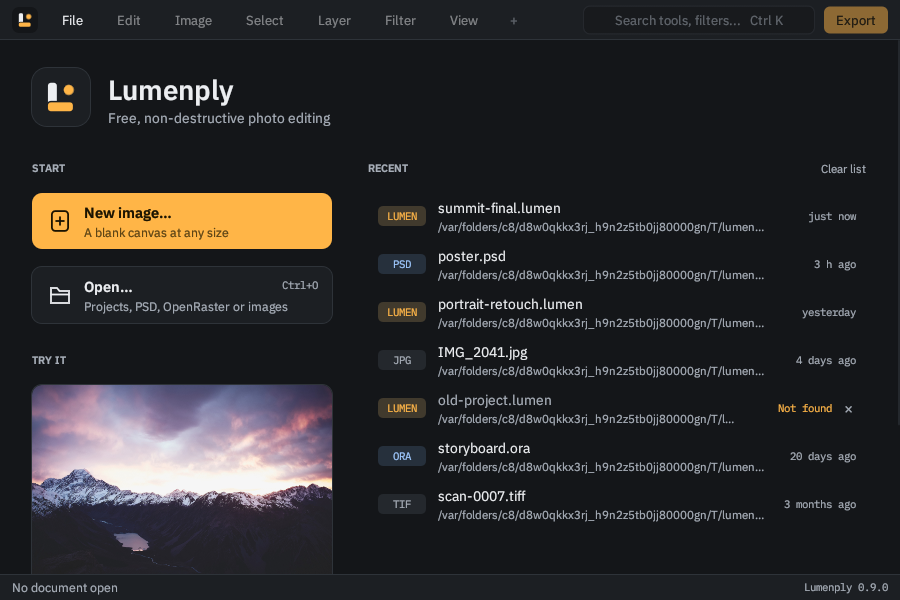
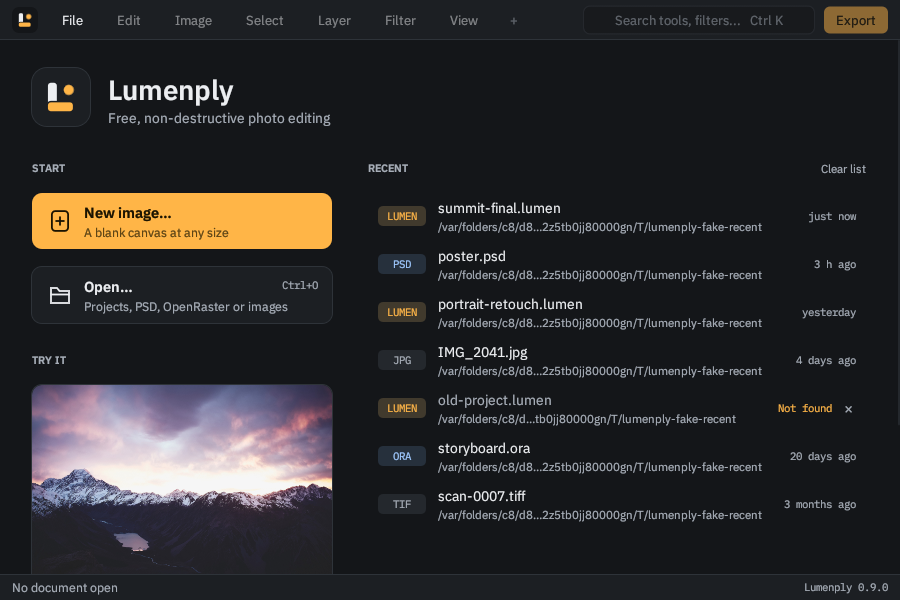
Welcome: elide long folders in the middle; document rfd backends
Recent-file folders keep their last folders (the identifying part) and
lose their middle when the column is narrow. Tests cover a failed launch
open staying on the welcome screen with its error.

diff --git a/crates/app/src/start.rs b/crates/app/src/start.rs
@@ -542,13 +542,17 @@ impl App {
                 text_w,
             ));
             p.galley(egui::pos2(text_x, rect.top() + 6.0), name_galley, TEXT);
-            let dir_galley = p.layout_job(one_line(
-                &display_dir(path, home.as_deref()),
-                FontId::proportional(11.5),
+            // Folders lose their middle, not their end: the last folder
+            // is usually the one that identifies the file.
+            let dir_font = FontId::proportional(11.5);
+            let dir = fit_middle(p, &display_dir(path, home.as_deref()), &dir_font, text_w);
+            p.text(
+                egui::pos2(text_x, rect.top() + 26.0),
+                Align2::LEFT_TOP,
+                dir,
+                dir_font,
                 MUTED,
-                text_w,
-            ));
-            p.galley(egui::pos2(text_x, rect.top() + 26.0), dir_galley, MUTED);
+            );
 
             if missing {
                 let x_hot = ui.rect_contains_pointer(x_rect);
@@ -603,6 +607,40 @@ fn one_line(text: &str, font: FontId, color: Color32, max_w: f32) -> egui::text:
         egui::text::LayoutJob::single_section(text.to_string(), egui::TextFormat::simple(font, color));
     job.wrap = egui::text::TextWrapping::truncate_at_width(max_w);
     job
+}
+
+/// `text` cut to `keep` characters by removing its middle: a third of the
+/// budget for the head, the rest for the tail, joined by an ellipsis.
+pub(crate) fn elide_middle(text: &str, keep: usize) -> String {
+    let chars: Vec<char> = text.chars().collect();
+    if chars.len() <= keep {
+        return text.to_string();
+    }
+    let budget = keep.saturating_sub(1); // room for the ellipsis
+    let head = budget / 3;
+    let tail = budget - head;
+    let mut out: String = chars[..head].iter().collect();
+    out.push('…');
+    out.extend(&chars[chars.len() - tail..]);
+    out
+}
+
+/// The longest middle-elided form of `text` that fits `max_w`.
+fn fit_middle(p: &egui::Painter, text: &str, font: &FontId, max_w: f32) -> String {
+    let width = |s: &str| p.layout_no_wrap(s.to_string(), font.clone(), MUTED).size().x;
+    if width(text) <= max_w {
+        return text.to_string();
+    }
+    let (mut lo, mut hi) = (1, text.chars().count());
+    while lo < hi {
+        let mid = (lo + hi).div_ceil(2);
+        if width(&elide_middle(text, mid)) <= max_w {
+            lo = mid;
+        } else {
+            hi = mid - 1;
+        }
+    }
+    elide_middle(text, lo)
 }
 
 fn semibold() -> egui::FontFamily {
@@ -881,6 +919,31 @@ mod tests {
             "an opened image is not an undo step"
         );
         assert_eq!(app.tab_infos(), [("dot.png".to_string(), false)]);
+    }
+
+    #[test]
+    fn a_file_that_fails_to_open_leaves_its_error_on_the_welcome_screen() {
+        let missing = std::env::temp_dir()
+            .join("lumenply-no-such-dir")
+            .join("gone.lumen");
+        let app = App::launch(&args(&[&missing.to_string_lossy()]));
+        assert!(app.no_doc);
+        assert!(app.status.starts_with("Could not open"), "{}", app.status);
+        assert!(!app.recent.iter().any(|r| r.ends_with("gone.lumen")));
+    }
+
+    #[test]
+    fn long_folders_lose_their_middle() {
+        let abc = "abcdefghijklmnopqrstuvwxyz";
+        assert_eq!(elide_middle(abc, 26), abc);
+        assert_eq!(elide_middle(abc, 40), abc);
+        assert_eq!(elide_middle(abc, 10), "abc…uvwxyz");
+        assert_eq!(elide_middle(abc, 10).chars().count(), 10);
+        assert_eq!(elide_middle(abc, 1), "…");
+        assert_eq!(
+            elide_middle("~/Pictures/2026/Trips/New Zealand", 20),
+            "~/Pict…s/New Zealand"
+        );
     }
 
     #[test]
